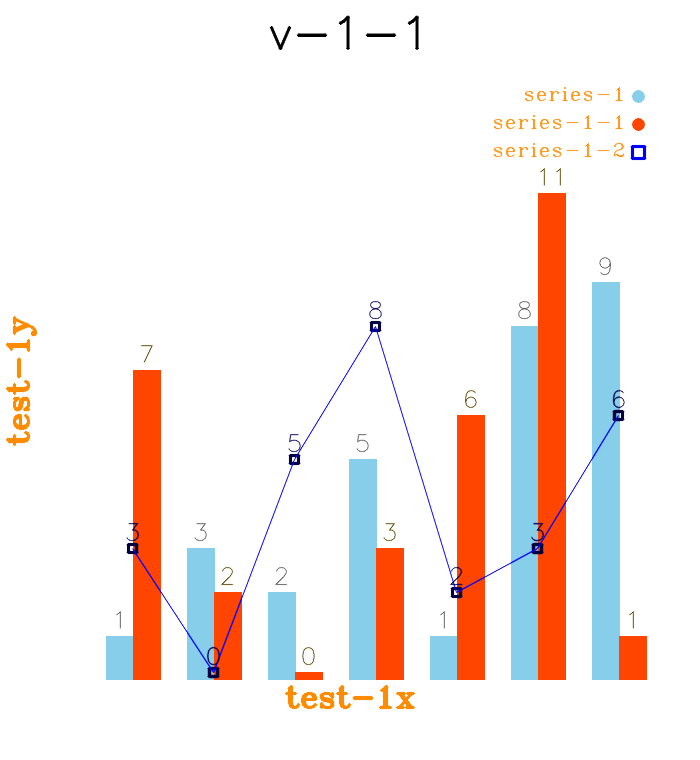
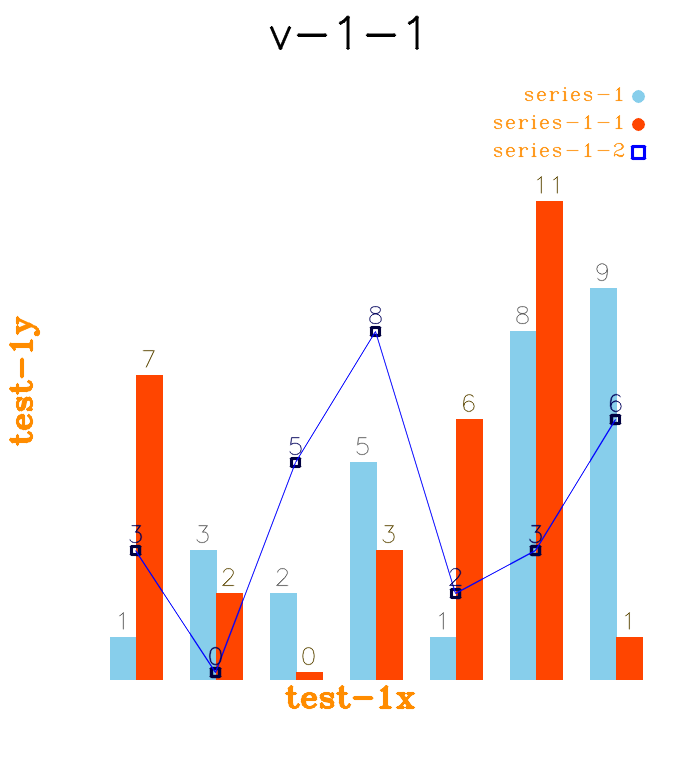
update demo and README

diff --git a/src/cvplot.h b/src/cvplot.h
@@ -80,6 +80,11 @@ namespace cvplot
 			return Color(r, g, b, a_);
 		}
 
+		Color Reverse() const
+		{
+			return Color(255 - r_, 255 - g_, 255 - b_, a_);
+		}
+
 		Color Lift(byte v)
 		{
 			int r = r_ > v ? r_ : v;
@@ -628,6 +633,7 @@ namespace cvplot
 				int h = target.rows;
 				std::vector<cv::Point> pts;
 				std::vector<Color> colors;
+				std::vector<double> zs;
 
 				auto px_delta = px_size / xd;
 				auto py_delta = py_size / yd;
@@ -646,6 +652,7 @@ namespace cvplot
 					{
 						auto z = (values_[i + 2] - z_min) * factor;
 						colors.push_back(render_color_.Linear(z));
+						zs.push_back(values_[i + 2]);
 					}
 				}
 				else
@@ -655,10 +662,17 @@ namespace cvplot
 
 				auto block_width = (int)(px_delta);
 				auto block_height = (int)(py_delta);
+				cv::Size fsize;
+				auto fface = cv::FONT_HERSHEY_COMPLEX_SMALL;
+				int fbase;
 				for (int i = 0; i < pts.size(); ++i)
 				{
-					cv::Rect rect({ pts[i].x - block_width / 2,pts[i].y - block_height / 2,block_width,block_height });
+					cv::Rect rect({ pts[i].x - block_width / 2 + 1,pts[i].y - block_height / 2 + 1,block_width - 2,block_height - 2 });
 					cv::rectangle(target, rect, colors[i].ToScalar(), -1);
+					char sz[32] = { 0 };
+					sprintf_s(sz, "%g", zs[i]);
+					fsize = cv::getTextSize(sz, fface, 1.0, 1, &fbase);
+					cv::putText(target, sz, { pts[i].x - fsize.width / 2,pts[i].y + fsize.height / 2 }, fface, 1.0, colors[i].Reverse().ToScalar(), 1, cv::LINE_AA);
 				}
 			}
 			break;
@@ -897,6 +911,12 @@ namespace cvplot
 		{
 			if (size_ != size)
 			{
+				if (size.width < 400 || size.height < 400)
+				{
+					size.width = std::max({ size.width, 400 });
+					size.height = std::max({ size.height, 400 });
+				}
+
 				cv::Size visual_size(size.width + 2 * horizontal_margin_, size.height + 2 * vertical_margin_);
 				if (buffer_.empty())
 				{
@@ -1045,17 +1065,26 @@ namespace cvplot
 				//erase view with background
 				//buffer_.setTo(background_color_.ToScalar());
 				
+				double pad = 60.0 / (std::max(size_.width, size_.height));
+				double par = 1.0 - 2 * pad;
+				double px_start = pad * size_.width;
+				double py_start = pad * size_.height;
+				double px_size = par * size_.width;
+				double py_size = par * size_.height;
+
 				//draw y label
 				if (!ylabel_.empty())
 				{
 					auto fface = cv::FONT_HERSHEY_TRIPLEX;
 					int fbase;
-					auto fsize = cv::getTextSize(ylabel_, fface, 1.0, 2, &fbase);
+					auto fscale = 1.0;
+					auto fsize = cv::getTextSize(ylabel_, fface, fscale, 2, &fbase);
 					int sq_size = size_.width < size_.height ? size_.width : size_.height;
 					cv::Rect rect(0, size_.height / 2 + vertical_margin_ - sq_size / 2, sq_size, sq_size);
 					auto mat = buffer_(rect);
-					cv::Point pt(sq_size / 2 - fsize.width / 2, horizontal_margin_ - fsize.height);
-					cv::putText(mat, ylabel_, pt, fface, 1.0, text_color_.ToScalar(), 2, cv::LINE_AA);
+					int offset = sq_size > 800 ? (int)(pad * sq_size / 8) : (int)(pad * sq_size / 16);
+					cv::Point pt(sq_size / 2 - fsize.width / 2, horizontal_margin_ + offset - fsize.height);
+					cv::putText(mat, ylabel_, pt, fface, fscale, text_color_.ToScalar(), 2, cv::LINE_AA);
 					auto rm = cv::getRotationMatrix2D({ sq_size / 2.0f,sq_size / 2.0f }, 90, 1.0);
 					cv::warpAffine(mat, mat, rm, { sq_size, sq_size },cv::WARP_FILL_OUTLIERS, cv::BORDER_TRANSPARENT, color::Transparent.ToScalar());
 				}
@@ -1133,13 +1162,6 @@ namespace cvplot
 				default:
 					break;
 				}
-
-				double par = 0.8125;
-				double pad = (1 - par) / 2;
-				double px_start = pad * size_.width;
-				double py_start = pad * size_.height;
-				double px_size = par * size_.width;
-				double py_size = par * size_.height;
 
 				//draw axis grids
 				if (enable_grid_ && dim == 2)
@@ -1269,8 +1291,8 @@ namespace cvplot
 					int bar_width = 20;
 					int bar_margin = 20;
 					const int N_COLORS = 256;
-					cv::Rect rect(size_.width + horizontal_margin_ + bar_margin, vertical_margin_ + bar_margin, bar_width, size_.height - 2 * bar_margin);
-					cv::Mat mat({ bar_width, N_COLORS }, CV_8UC4);
+					cv::Rect rect(size_.width + horizontal_margin_ + par * bar_margin, vertical_margin_ + bar_margin, bar_width, size_.height - 2 * bar_margin);
+					cv::Mat mat(N_COLORS, bar_width, CV_8UC4);
 					for (int i = 0; i < N_COLORS; ++i)
 					{
 						for (int j = 0; j < bar_width; ++j)
@@ -1285,18 +1307,19 @@ namespace cvplot
 
 					auto fface = cv::FONT_HERSHEY_SIMPLEX;
 					int fbase;
+					auto fsacle = 0.5;
 
 					char sz1[16] = { 0 };
 					sprintf_s(sz1, "%g", z_min);
-					auto fsize1 = cv::getTextSize(sz1, fface, 0.5, 1, &fbase);
-					cv::Point pt1(rect.x + bar_width / 2 - fsize1.width / 2, rect.y + rect.height + bar_margin);
-					cv::putText(buffer_, sz1, pt1, fface, 0.5, color::Black.ToScalar(), 1, cv::LINE_AA);
+					auto fsize1 = cv::getTextSize(sz1, fface, fsacle, 1, &fbase);
+					cv::Point pt1(rect.x + bar_width / 2 - 3 * fsize1.width / 4, rect.y + rect.height + bar_margin + 5);
+					cv::putText(buffer_, sz1, pt1, fface, fsacle, color::Black.ToScalar(), 1, cv::LINE_AA);
 
 					char sz2[16] = { 0 };
 					sprintf_s(sz2, "%g", z_max);
-					auto fsize2 = cv::getTextSize(sz2, fface, 0.5, 1, &fbase);
-					cv::Point pt2(rect.x + bar_width / 2 - fsize2.width / 2, rect.y - fsize2.height - fbase);
-					cv::putText(buffer_, sz2, pt2, fface, 0.5, render_color.ToScalar(), 1, cv::LINE_AA);
+					auto fsize2 = cv::getTextSize(sz2, fface, fsacle, 1, &fbase);
+					cv::Point pt2(rect.x + bar_width / 2 - 3 * fsize2.width / 4, rect.y - fsize2.height - fbase);
+					cv::putText(buffer_, sz2, pt2, fface, fsacle, render_color.ToScalar(), 1, cv::LINE_AA);
 				}
 
 				//draw title

diff --git a/src/demo.cpp b/src/demo.cpp
@@ -1,4 +1,5 @@
 #include "cvplot.h"
+#include <direct.h>
 
 int main()
 {
@@ -16,11 +17,11 @@ int main()
 		.SetRenderColor(cvplot::color::Blue)
 		.AddValues({ 3,0,5,8,2,3,6 });
 
-	auto s2 = cvplot::Series("series-2", cvplot::chart::Line, cvplot::marker::Circle)
+	auto s2 = cvplot::Series("series-2", cvplot::chart::Line)
 		.SetRenderColor(cvplot::color::DarkOrange)
 		.AddValues({ 2,32,5,9,7,12,10,1,13,5,19,11,25,2,27,3,32,10 });
 
-	const int N = 100000;
+	const int N = 10000;
 	for (int i = 0; i < N; ++i)
 	{
 		auto x = 20.0 * (N / 2 - i + 1) / N;
@@ -30,11 +31,17 @@ int main()
 
 	auto s3 = cvplot::Series("series-3", cvplot::chart::Scatter, cvplot::marker::Diamond)
 		.SetRenderColor(cvplot::color::Red)
-		.AddValues({ 2,2,5,9,7,12,10,1 })
+		.AddValues({ 12,2,5,25,-7,12,15,1 })
 		.AddValues({ 6,2 });
 
-	auto s4 = cvplot::Series("series-4", cvplot::chart::Elevation)
-		.AddValues({ 1,5,25,2,3,58,3,4,180,5,2,80,3,8,100,8,1,200 });
+	auto s4 = cvplot::Series("series-4", cvplot::chart::Elevation);
+	for (int i = 0; i < 8; ++i)
+	{
+		for (int j = 0; j < 5; ++j)
+		{
+			s4.AddValues({ (double)i,(double)j,(double)(100 - (i + 1) * j * j) });
+		}
+	}
 
 	auto v1 = cvplot::View()
 		.SetTitle("v-1-1")
@@ -51,6 +58,7 @@ int main()
 		.SetSize({ 600, 600 })
 		.SetXLabel("test-2x")
 		.SetYLabel("test-2y")
+		.SetTextColor(cvplot::color::Blue)
 		.EnableGrid(true)
 		.SetGridColor(cvplot::color::LightGray)
 		.AddSeries(s2)
@@ -58,9 +66,10 @@ int main()
 
 	auto v3 = cvplot::View()
 		.SetTitle("v-1-3")
-		.SetSize({ 600, 600 })
 		.SetXLabel("test-3x")
 		.SetYLabel("test-3y")
+		.SetSize({ 800, 600 })
+		.SetTextColor(cvplot::color::OrangeRed)
 		.AddSeries(s4);
 
 	auto f = cvplot::Figure()
@@ -72,6 +81,8 @@ int main()
 
 	//f.Show();
 	//f.Save("figure.png");
+	_mkdir("dump\\");
+
 	f.Dump("dump\\", "fig1");
 
 	cvplot::Figure f2;

diff --git a/README.md b/README.md
@@ -1,11 +1,68 @@
 # cvplot
-Yet another cvplot, draw charts (like bar, scatter, line, etc) with OpenCV
+Yet another cvplot, draw charts (like bar, scatter, line, etc) with OpenCV.
+
+Easy to use (one header file ONLY).
 
 
+
+[TOC]
+
+## Supported chart types ##
+
+- Bar
+- Trends
+- Line
+- Scatter
+- Elevation
+
+
+
+## Supported features ##
+
+- Sub-plots
+- Save as image (sub-plots also)
+- Background color
+- Render color
+- Text color
+- Set size
+- Set title
+- Set X,Y labels
+- Legend on/off
+- Different markers
+- Axis grid
+- **Dump & load with file**  (just like `serialization/ deserialization`)
+
+
+
+## Usage ##
+
+It is as easy as below:
+
+```cpp
+#include "cvplot.h"
+
+int main()
+{
+	auto s = cvplot::Series("foo", cvplot::chart::Bar).AddValues({ 3,2,5,9,0 });
+	auto v = cvplot::View().SetTitle("bar").SetSize({ 600, 600 }).AddSeries(s);
+	auto f = cvplot::Figure().SetLayout(1,1).SetView(v, 1, 1);
+	f.Show();
+	f.Save("figure.png");
+    return 0;
+}
+```
+
+
+
+## Screenshots ##
+
+One **figure** with layout '1-by-3' (sub-plots) is shown as below.
 
 ![screenshot](imgs/figure.png)
 
 
+
+**Sub-plots** can also be saved as images, see below.
 
 ![fig-1-1](imgs/figure[01-01].png)
 
